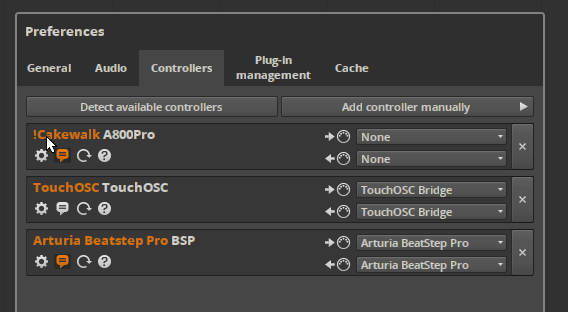
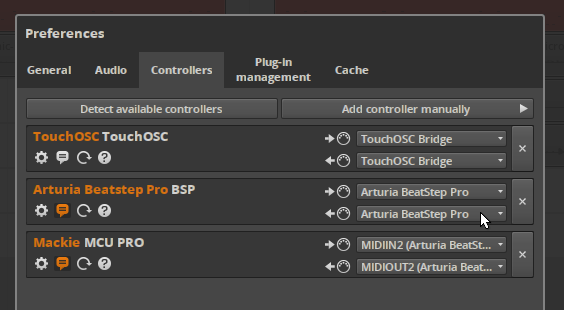
added MCU PRO to screenshot

diff --git a/README.md b/README.md
@@ -11,7 +11,8 @@ How to install:
      Or add one of the controllers manually:
     *   **Arturia Beatstep Pro -> BSP** ... adds BSP with three inputs + OMNI (this is the autodetectable version)
     *   **Arturia Beatstep Pro (All channels) -> BSP** ... adds BSP with all 16 MIDI channels + OMNI
-4.  In the end the dialog should look something like this (ignoring the other controllers):![](https://raw.githubusercontent.com/justlep/bitwig/master/ArturiaBeatstepPro/BeatstepPro-autodetect.png)
+4.  In the end the dialog should look something like this (ignore TouchOSC):![](https://raw.githubusercontent.com/justlep/bitwig/master/ArturiaBeatstepPro/BeatstepPro-autodetect.png)
+    (Note that for Mackie Control you don't need the controller script - it's comes with Bitwig. Assigning Mackie MCU PRO to BeatStepPro's MIDI-IN2/OUT2 allows you to switch control mode to MCU/HUI mode and then control track volumes, pan, mute and solo via BSP's knobs and buttons.)
 5.  After that, you can select MIDI track inputs of BeatStep's sequencers..![](https://raw.githubusercontent.com/justlep/bitwig/master/ArturiaBeatstepPro/BeatstepPro.control.png)
 
 Put your Beatstep Pro in sync mode "USB" to make it start/stop synchronously with Bitwig.
